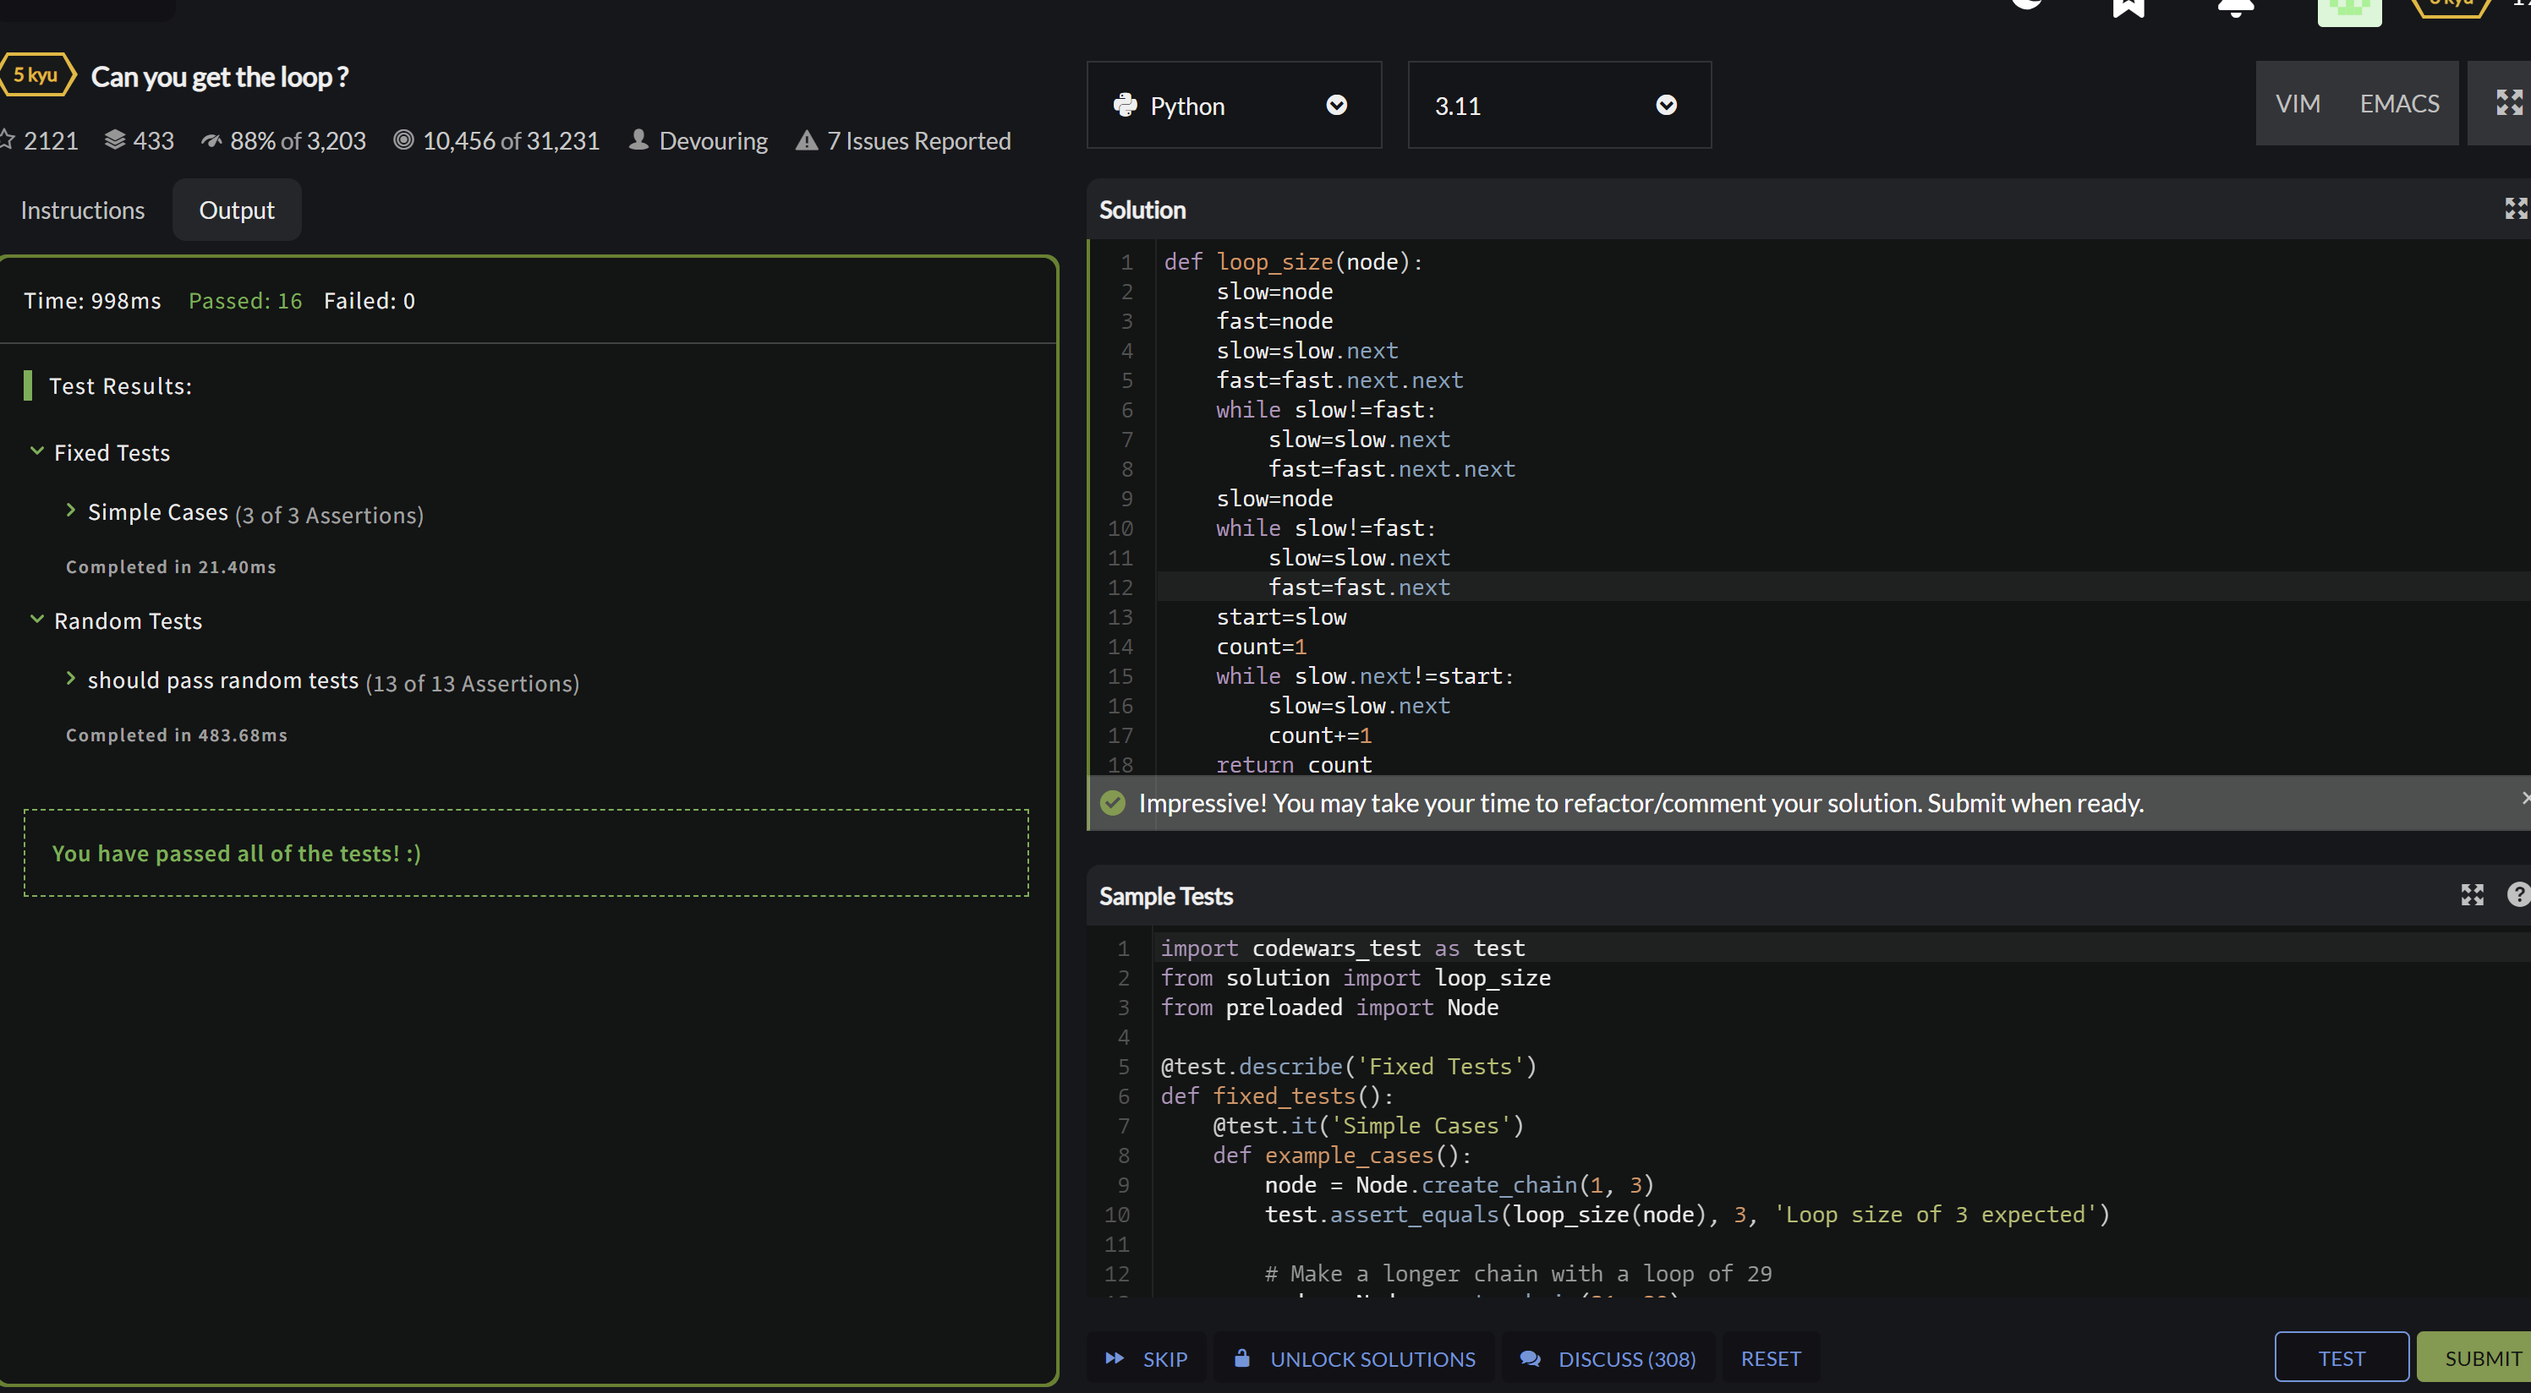
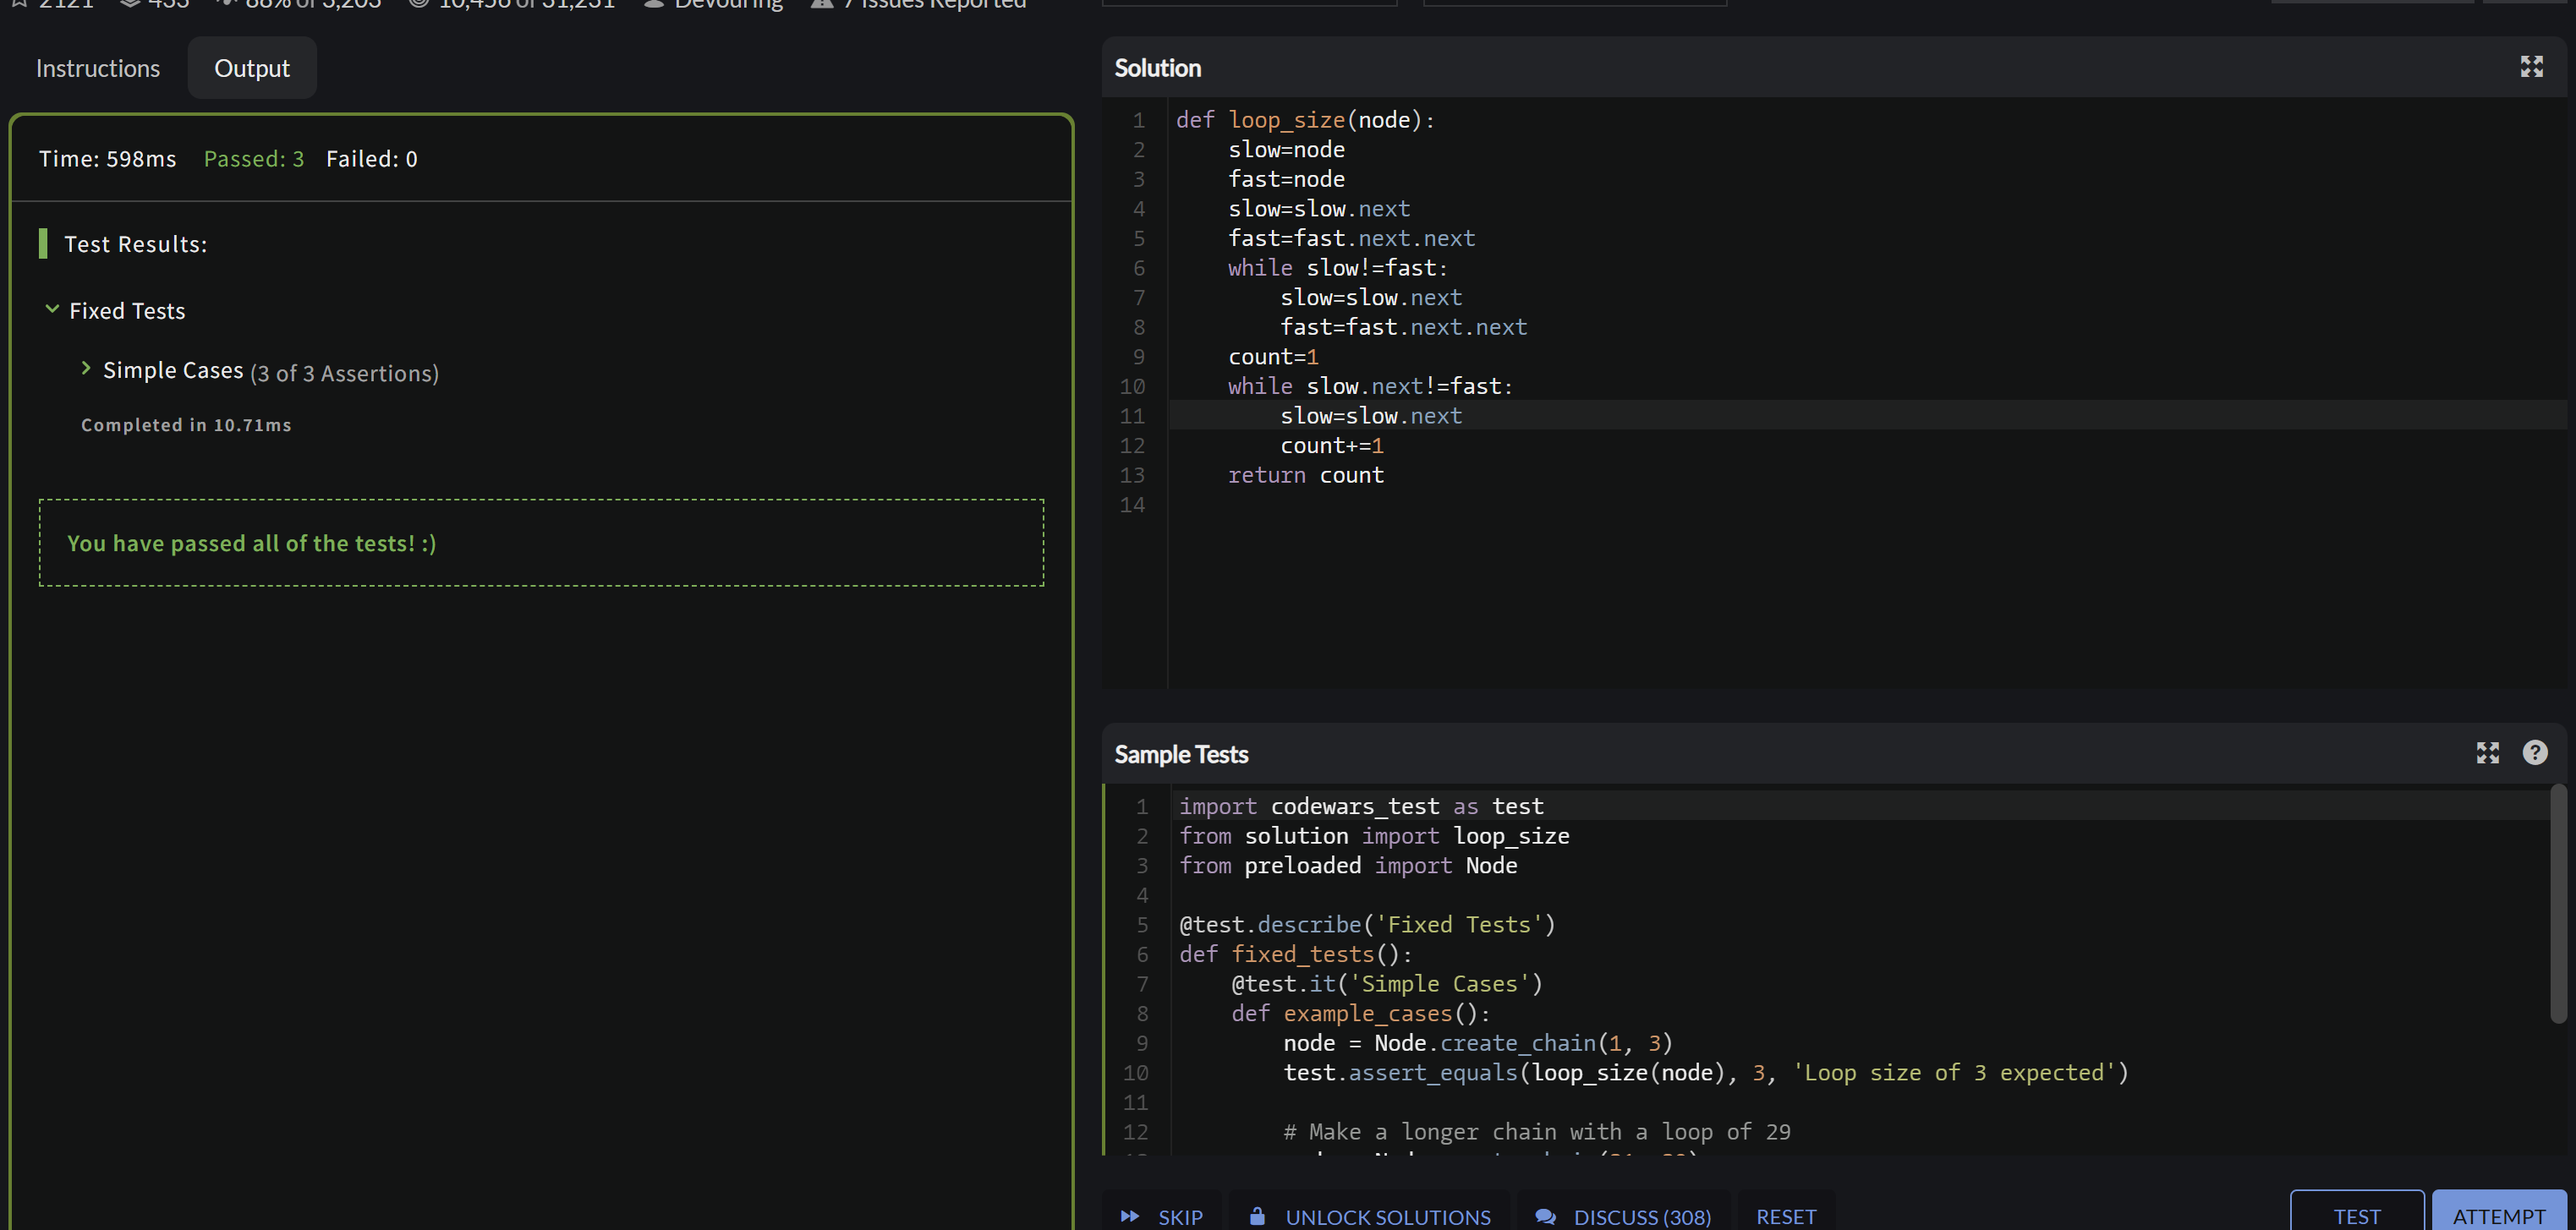
improved loop solution

diff --git a/Can you get the loop/solution.py b/Can you get the loop/solution.py
@@ -6,13 +6,8 @@ def loop_size(node):
     while slow!=fast:
         slow=slow.next
         fast=fast.next.next
-    slow=node
-    while slow!=fast:
-        slow=slow.next
-        fast=fast.next
-    start=slow
     count=1
-    while slow.next!=start:
+    while slow.next!=fast:
         slow=slow.next
         count+=1
     return count
